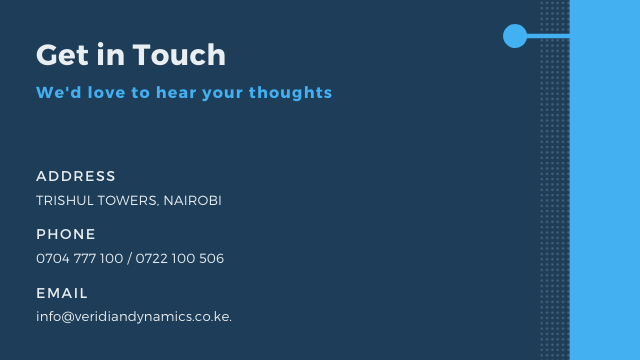
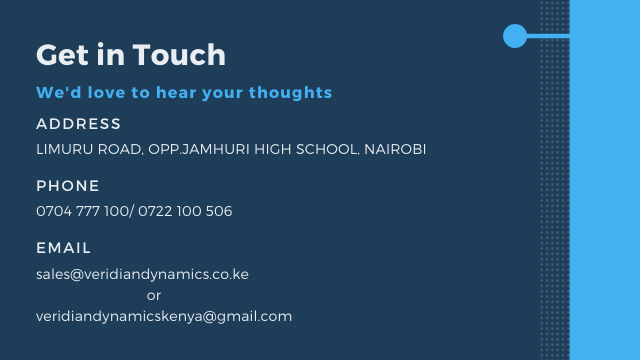
client review

diff --git a/contact.html b/contact.html
@@ -62,8 +62,8 @@
         <li class="list-group-item font-weight-bold"><i class="material-icons text-primary">home</i>Veridian Dynamics</li>
         <li class="list-group-item font-weight-bold"><i class="material-icons text-primary">place</i>Limuru Rd, Opp. Jamhuri High School, Nairobi</li>
         <li class="list-group-item font-weight-bold"><i class="material-icons text-primary">phone_in_talk</i>0722 100 506 / 0704 777 100</li>
-        <li class="list-group-item font-weight-bold"><i class="material-icons text-primary">email1</i>info@veridiandynamics.co.ke</li>
-        <li class="list-group-item font-weight-bold"><i class="material-icons text-primary">email2</i>sales@veridiandynamics.co.ke</li>
+        <li class="list-group-item font-weight-bold"><i class="material-icons text-primary">email1</i>sales@veridiandynamics.co.ke</li>
+        <li class="list-group-item font-weight-bold"><i class="material-icons text-primary">email2</i>veridiandynamicskenya@gmail.com</li>
       </ul>
       
 
@@ -146,7 +146,7 @@
          <div class="badge badge-dark text-primary"><i class="material-icons">home</i>Veridian Dynamics</div>  
          <div class="badge badge-dark text-primary"><i class="material-icons">place</i>Limuru Rd, Opp. Jamhuri High School, Nairobi</div>
          <div class="badge badge-dark text-primary"><i class="material-icons">phone_in_talk</i>0722 100 506 / 0704 777 100</div>
-         <div class="badge badge-dark text-primary"><i class="material-icons">email</i>info@veridiandynamics.co.ke</div>
+         <div class="badge badge-dark text-primary"><i class="material-icons">email</i>sales@veridiandynamics.co.ke</div>
         </nav>
       </div>
     </div>

diff --git a/about_us.html b/about_us.html
@@ -151,7 +151,7 @@
          <div class="badge badge-dark text-primary"><i class="material-icons">home</i>Veridian Dynamics</div>  
          <div class="badge badge-dark text-primary"><i class="material-icons">place</i>Limuru Rd, Opp. Jamhuri High School, Nairobi</div>
          <div class="badge badge-dark text-primary"><i class="material-icons">phone_in_talk</i>0722 100 506 / 0704 777 100</div>
-         <div class="badge badge-dark text-primary"><i class="material-icons">email</i>info@veridiandynamics.co.ke</div>
+         <div class="badge badge-dark text-primary"><i class="material-icons">email</i>sales@veridiandynamics.co.ke</div>
         </nav>
       </div>
     </div>

diff --git a/agriculture.html b/agriculture.html
@@ -141,7 +141,7 @@
          <div class="badge badge-dark text-primary"><i class="material-icons">home</i>Veridian Dynamics</div>  
          <div class="badge badge-dark text-primary"><i class="material-icons">place</i>Limuru Rd, Opp. Jamhuri High School, Nairobi</div>
          <div class="badge badge-dark text-primary"><i class="material-icons">phone_in_talk</i>0722 100 506 / 0704 777 100</div>
-         <div class="badge badge-dark text-primary"><i class="material-icons">email</i>info@veridiandynamics.co.ke</div>
+         <div class="badge badge-dark text-primary"><i class="material-icons">email</i>sales@veridiandynamics.co.ke</div>
         </nav>
       </div>
     </div>

diff --git a/asset.html b/asset.html
@@ -186,7 +186,7 @@
          <div class="badge badge-dark text-primary"><i class="material-icons">home</i>Veridian Dynamics</div>  
          <div class="badge badge-dark text-primary"><i class="material-icons">place</i>Limuru Rd, Opp. Jamhuri High School, Nairobi</div>
          <div class="badge badge-dark text-primary"><i class="material-icons">phone_in_talk</i>0722 100 506 / 0704 777 100</div>
-         <div class="badge badge-dark text-primary"><i class="material-icons">email</i>info@veridiandynamics.co.ke</div>
+         <div class="badge badge-dark text-primary"><i class="material-icons">email</i>sales@veridiandynamics.co.ke</div>
         </nav>
       </div>
     </div>

diff --git a/automation.html b/automation.html
@@ -162,7 +162,7 @@
          <div class="badge badge-dark text-primary"><i class="material-icons">home</i>Veridian Dynamics</div>  
          <div class="badge badge-dark text-primary"><i class="material-icons">place</i>Limuru Rd, Opp. Jamhuri High School, Nairobi</div>
          <div class="badge badge-dark text-primary"><i class="material-icons">phone_in_talk</i>0722 100 506 / 0704 777 100</div>
-         <div class="badge badge-dark text-primary"><i class="material-icons">email</i>info@veridiandynamics.co.ke</div>
+         <div class="badge badge-dark text-primary"><i class="material-icons">email</i>sales@veridiandynamics.co.ke</div>
         </nav>
       </div>
     </div>

diff --git a/index.html b/index.html
@@ -186,7 +186,7 @@
          <div class="badge badge-dark text-primary"><i class="material-icons">home</i>Veridian Dynamics</div>  
          <div class="badge badge-dark text-primary"><i class="material-icons">place</i>Limuru Rd, Opp. Jamhuri High School, Nairobi</div>
          <div class="badge badge-dark text-primary"><i class="material-icons">phone_in_talk</i>0722 100 506 / 0704 777 100</div>
-         <div class="badge badge-dark text-primary"><i class="material-icons">email</i>info@veridiandynamics.co.ke</div>
+         <div class="badge badge-dark text-primary"><i class="material-icons">email</i>sales@veridiandynamics.co.ke</div>
         </nav>
       </div>
     </div>

diff --git a/smart_home.html b/smart_home.html
@@ -152,7 +152,7 @@
          <div class="badge badge-dark text-primary"><i class="material-icons">home</i>Veridian Dynamics</div>  
          <div class="badge badge-dark text-primary"><i class="material-icons">place</i>Limuru Rd, Opp. Jamhuri High School, Nairobi</div>
          <div class="badge badge-dark text-primary"><i class="material-icons">phone_in_talk</i>0722 100 506 / 0704 777 100</div>
-         <div class="badge badge-dark text-primary"><i class="material-icons">email</i>info@veridiandynamics.co.ke</div>
+         <div class="badge badge-dark text-primary"><i class="material-icons">email</i>sales@veridiandynamics.co.ke</div>
         </nav>
       </div>
     </div>

diff --git a/css/custom.css b/css/custom.css
@@ -9,29 +9,9 @@
 	background-color: #C8C8C8;
 }
 
-.display-3 {
-font-family: 'Alfa Slab One', cursive;
-font-size: 100px;
-}
 
-nav a {
-	font-family: 'Abril Fatface', cursive;
-}
-
-.lead {
-	font-family: 'Graduate', cursive;
-}
-
-h3 {
-
-	font-family: 'Abril Fatface', cursive;
-}
-
- div p {
-
-	font-family: 'Roboto Slab', serif;
-	font-size: 20px;
-	box-shadow: transparent;
+body {
+	font-family: Helvetica, Arial, sans-serif;
 }
 
 #icons {
